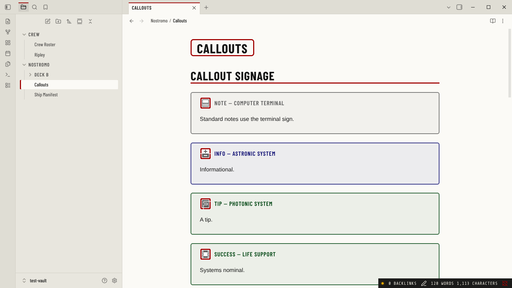
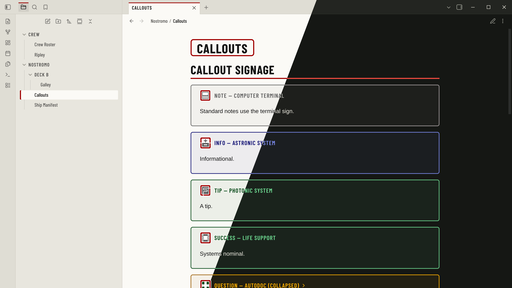
Add high-res light and dark screenshots to README (#1)
- Diagonal light/dark hero image at the top of the README
- Side-by-side light/dark comparison table: notes, built-in callouts,
  semiotic callouts and details (2880x1800, 2x, losslessly optimised)
- Regenerate screenshot.png (512x288 store thumbnail) from the new capture

diff --git a/README.md b/README.md
@@ -2,7 +2,7 @@
 
 An Obsidian theme based on Ron Cobb's **Semiotic Standard**, the signage he designed for the USCSS Nostromo in Ridley Scott's *Alien* (1979).
 
-![Semiotic](screenshot.png)
+![Semiotic in light and dark mode](docs/images/hero.png)
 
 The light mode ("Nostromo day cycle") uses:
 - off-white padded panels and bulkhead greys
@@ -10,7 +10,38 @@ The light mode ("Nostromo day cycle") uses:
 - stenciled condensed labels
 - amber/black hazard chevrons
 
-A first-pass dark mode ("MU-TH-UR 6000") is included.
+A dark mode ("MU-TH-UR 6000") is included as a first pass.
+
+## Screenshots
+
+Both modes shown side by side, captured at 2× in Obsidian 1.14. Click any image for full resolution.
+
+<table>
+  <tr>
+    <th width="50%">Light · “Nostromo day cycle”</th>
+    <th width="50%">Dark · “MU-TH-UR 6000”</th>
+  </tr>
+  <tr><td colspan="2"><b>Notes:</b> sign-plate title, properties, stencilled headings, tags and links</td></tr>
+  <tr>
+    <td><a href="docs/images/light-editor.png"><img src="docs/images/light-editor.png" alt="Light mode: note with properties and headings"></a></td>
+    <td><a href="docs/images/dark-editor.png"><img src="docs/images/dark-editor.png" alt="Dark mode: note with properties and headings"></a></td>
+  </tr>
+  <tr><td colspan="2"><b>Built-in callouts:</b> each type carries a Semiotic sign</td></tr>
+  <tr>
+    <td><a href="docs/images/light-callouts.png"><img src="docs/images/light-callouts.png" alt="Light mode: built-in callouts with Semiotic signs"></a></td>
+    <td><a href="docs/images/dark-callouts.png"><img src="docs/images/dark-callouts.png" alt="Dark mode: built-in callouts with Semiotic signs"></a></td>
+  </tr>
+  <tr><td colspan="2"><b>Semiotic callouts:</b> one per symbol, with hazard bands on the dangerous ones</td></tr>
+  <tr>
+    <td><a href="docs/images/light-semiotic.png"><img src="docs/images/light-semiotic.png" alt="Light mode: semiotic callouts such as airlock, cryo and galley"></a></td>
+    <td><a href="docs/images/dark-semiotic.png"><img src="docs/images/dark-semiotic.png" alt="Dark mode: semiotic callouts such as airlock, cryo and galley"></a></td>
+  </tr>
+  <tr><td colspan="2"><b>Details:</b> checkboxes, blockquotes, hazard-stripe divider, tables and code</td></tr>
+  <tr>
+    <td><a href="docs/images/light-details.png"><img src="docs/images/light-details.png" alt="Light mode: tasks, blockquote, hazard divider, table and code"></a></td>
+    <td><a href="docs/images/dark-details.png"><img src="docs/images/dark-details.png" alt="Dark mode: tasks, blockquote, hazard divider, table and code"></a></td>
+  </tr>
+</table>
 
 ## What it changes
 
